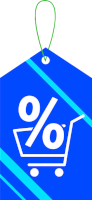
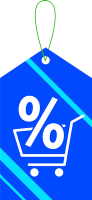
INF03-08-24-06-SG

diff --git a/Egzamin_pr/Egzamin_JS/INF03-08-24-06-SG/rejestracja.html b/Egzamin_pr/Egzamin_JS/INF03-08-24-06-SG/rejestracja.html
@@ -7,61 +7,58 @@
     <title>Sklep - rejestracja</title>
 </head>
 <body>
-    <div id="left">
+    <aside>
         <img src="obraz.png" alt="promocje">
         <h2>Sprawdź promocje</h2>
         <table>
-            <tr>
-                <th>co?</th>
-                <th>ile taniej?</th>
-            </tr>
-            <tr>
-                <td>ubrania</td>
-                <td>15%</td>
-            </tr>
-            <tr>
-                <td>buty</td>
-                <td>25%</td>
-            </tr>
+            <tr><th>co?</th><th>ile taniej?</th></tr>
+            <tr><td>ubrania</td><td>15%</td></tr>
+            <tr><td>buty</td><td>25%</td></tr>
         </table>
-    </div>
+    </aside>
+
     <header>
         <h1>Zarejestruj się w sklepie</h1>
     </header>
-    <main>
-        <button onclick="klient()">Klient</button>
-        <button onclick="adres()">Adres</button>
-        <button onclick="kontakt()">Kontakt</button>
 
-        <div id="mainKlient">
-            <p>Imie</p>
-            <input type="text" name="imie" id="imie" placeholder="Wpisz dane...">
+    <main>
+        <button onclick="pokazKlient()">Klient</button>
+        <button onclick="pokazAdres()">Adres</button>
+        <button onclick="pokazKontakt()">Kontakt</button>
+        <section id="sectionKlient">
+            <p>Imię</p>
+            <input type="text" placeholder="Wpisz dane..." id="inputImie" onblur="aktualizujPostep()">
             <p>Nazwisko</p>
-            <input type="text" name="nazwisko" id="nazwisko">
+            <input type="text" id="inputNazwisko" onblur="aktualizujPostep()">
             <p>Data urodzenia</p>
-            <input type="date" name="data_u" id="data_u">
-        </div>
-        <div id="mainAdres">
+            <input type="date" id="inputData" onblur="aktualizujPostep()">
+        </section>
+
+        <section id="sectionAdres">
             <p>Ulica</p>
-            <input type="text" name="ulica" id="ulica">
+            <input type="text" id="inputUlica" onblur="aktualizujPostep()">
             <p>Numer</p>
-            <input type="number" name="numer" id="numer">
+            <input type="number" id="inputNumer" onblur="aktualizujPostep()">
             <p>Miasto</p>
-            <input type="text" name="miasto" id="miasto">
-        </div>
-        <div id="mainKontakt">
+            <input type="text" id="inputMiasto" onblur="aktualizujPostep()">
+        </section>
+
+        <section id="sectionKontakt">
             <p>Numer komórkowy</p>
-            <input type="tel" name="telefon" id="telefon"><br>
-            <input type="checkbox" name="rodo" id="rodo"> <label for="rodo">Akceptuję RODO</label><br>
-            <button onclick="zatwierdz()">Zatwierdź dane</button>
-        </div>
+            <input type="tel" id="inputTelefon" onblur="aktualizujPostep()"><br>
+            <input type="checkbox" name="inputRODO "id="inputRODO" onblur="aktualizujPostep()"><label for="inputRODO">Akceptuję RODO</label><br>
+            <button id="buttonZatwierdz" onclick="zatwierdz()">Zatwierdź dane</button>
+
+        </section>
     </main>
-    <div id="postep">
-        <div></div>
-    </div>
+
+    <section id="postep">
+        <section id="pasekPostepu"></section>
+    </section>
+    
     <footer>
-        <h4>Rejestrację do sklepu wykonał: <a href="https://github.com/alanwnuczko">Alan Wnuczko</a></h4>
+        <h4>rejestrację do sklepu wykonał: <a href="https://github.com/alanwnuczko">Alan Wnuczko</a></h4>
     </footer>
+    <script src="main.js"></script>
 </body>
-<script src="main.js"></script>
 </html>

diff --git a/Egzamin_pr/Egzamin_JS/INF03-08-24-06-SG/main.js b/Egzamin_pr/Egzamin_JS/INF03-08-24-06-SG/main.js
@@ -1,47 +1,41 @@
-function aktywujZakladke(zakladkaId){
-    document.getElementById('mainKlient').style.display = 'none';
-    document.getElementById('mainAdres').style.display = 'none';
-    document.getElementById('mainKontakt').style.display = 'none';
+let licznik = 0;
 
-    document.getElementById(zakladkaId).style.display = 'block';
+function pokazKlient(){
+    document.getElementById("sectionKlient").style.display = "block";
+    document.getElementById("sectionAdres").style.display = "none";
+    document.getElementById("sectionKontakt").style.display = "none";
 }
 
-function klient(){
-    aktywujZakladke('mainKlient');
-}
-function adres(){
-    aktywujZakladke('mainAdres');
-}
-function kontakt(){
-    aktywujZakladke('mainKontakt');
+function pokazAdres(){
+    document.getElementById("sectionKlient").style.display = "none";
+    document.getElementById("sectionAdres").style.display = "block";
+    document.getElementById("sectionKontakt").style.display = "none";
 }
 
-let postep = 0;
+function pokazKontakt(){
+    document.getElementById("sectionKlient").style.display = "none";
+    document.getElementById("sectionAdres").style.display = "none";
+    document.getElementById("sectionKontakt").style.display = "block";
+}
 
-function updatePostep(){
-    if(postep < 100){
-        postep += 12;
-    
-    if(postep > 100){
-        postep = 100;
+function aktualizujPostep(){
+    licznik += 12;
+    if(licznik > 100){
+        licznik = 100;
     }
-        document.querySelector('#postep > div').style.width = postep + '%';
-    }
-}
 
-document.querySelectorAll('input[type="text"], input[type="date"], input[type="number"], input[type="tel"]').forEach(function (input){
-    input.addEventListener('blur', updatePostep);
-});
+    document.getElementById("pasekPostepu").style.width = `${licznik}%`;
+}
 
 function zatwierdz(){
-    let imie = document.getElementById('imie').value;
-    let nazwisko = document.getElementById('nazwisko').value;
-    let data = document.getElementById('data_u').value;
-    let ulica = document.getElementById('ulica').value;
-    let numer = document.getElementById('numer').value;
-    let miasto = document.getElementById('miasto').value;
-    let tel = document.getElementById('telefon').value;
-    let rodo = document.getElementById('rodo').checked;
+    let imie = document.getElementById("inputImie").value;
+    let nazwisko = document.getElementById("inputNazwisko").value;
+    let dataUrodzenia = document.getElementById("inputData").value;
+    let ulica = document.getElementById("inputUlica").value;
+    let numer = document.getElementById("inputNumer").value;
+    let miasto = document.getElementById("inputMiasto").value;
+    let telefon = document.getElementById("inputTelefon").value;
+    let RODO = document.getElementById("inputRODO").value;
 
-    console.log(imie + ", " + nazwisko + ", " + data + ", " + ulica + ", " + numer + ", " + miasto + ", " + tel + ", " + rodo);
+    console.log(`${imie}, ${nazwisko}, ${dataUrodzenia}, ${ulica}, ${numer}, ${miasto}, ${telefon}, ${RODO}`);
 }

diff --git a/Egzamin_pr/Egzamin_JS/INF03-08-24-06-SG/styl.css b/Egzamin_pr/Egzamin_JS/INF03-08-24-06-SG/styl.css
@@ -1,76 +1,38 @@
 *{
-    font-family: 'Cambria';
+    font-family: Cambria;
 }
 
 body{
     background-color: linen;
+    margin: 0;
 }
 
-#left, header, footer{
+aside, header, footer{
     background-color: steelblue;
     color: white;
     text-align: center;
 }
 
-#left{
+aside{
     float: left;
     width: 25%;
     height: 510px;
     margin-top: 0;
     margin-bottom: 0;
-    margin-left: 1;
-    margin-right: 1;
+    margin-left: 1%;
+    margin-right: 1%;
     box-shadow: 4px 4px 5px dimgray;
 }
 
 header{
     width: 73%;
     height: 80px;
+    float: right;
 }
 
 main{
     width: 73%;
     height: 400px;
-}
-
-button{
-    background-color: steelblue;
-    color: white;
-    width:20%;
-    padding: 15px;
-    margin-top: 30px;
-    font-size: 130%;
-    border: none;
-}
-
-button:hover{
-    background-color: navy
-}
-
-main > div{
-    background-color: lightblue;
-    margin-right: 80px;
-    padding: 10px;
-}
-
-#postep{
-    background-color: lightgray;
-    width: 73%;
-    margin-bottom: 10px;
-}
-
-#postep div{
-    background-color: navy;
-    width:4%;
-    height: 30px;
-}
-
-table{
-    width: 100%;
-    border: 1px dotted navy;
-}
-
-header, main, #postep{
     float: right;
 }
 
@@ -78,10 +40,44 @@ footer{
     clear: both;
 }
 
-#mainAdres{
+button{
+    background-color: steelblue;
+    color: white;
+    width: 20%;
+    padding: 15px;
+    margin-top: 30px;
+    font-size: 130%;
+    border: none;
+}
+
+button:hover{
+    background-color: navy;
+}
+
+#sectionKlient, #sectionAdres, #sectionKontakt{
+    background-color: lightblue;
+    margin-right: 80px;
+    padding: 10px;
+}
+
+#sectionAdres, #sectionKontakt{
     display: none;
 }
 
-#mainKontakt{
-    display: none;
+section#postep{
+    background-color: lightgray;
+    width: 73%;
+    margin-bottom: 10px;
+    float: right;
+}
+
+section#pasekPostepu{
+    background-color: navy;
+    width: 4%;
+    height: 30px;
+}
+
+table{
+    width: 100%;
+    border: dotted 1px navy;
 }
